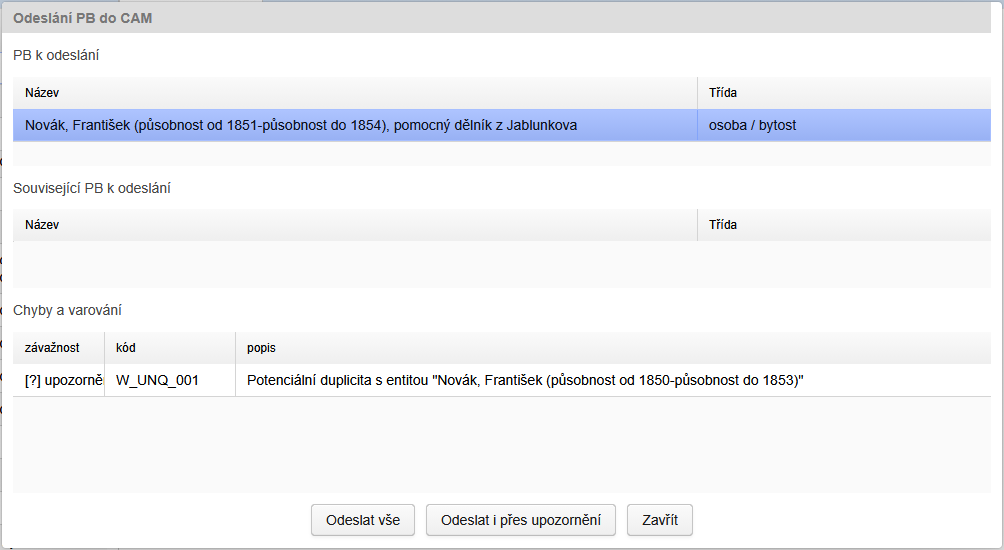
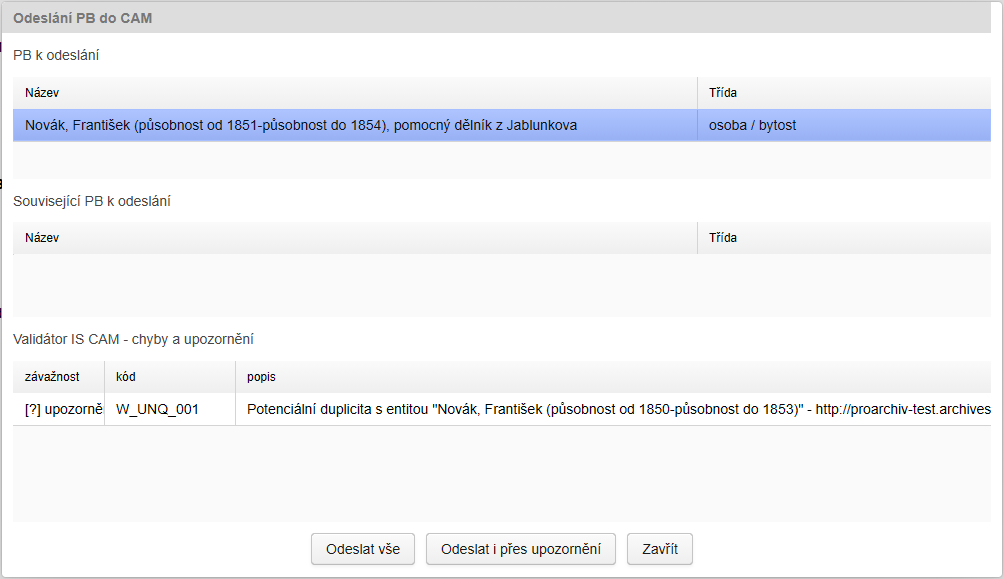
Úpravy PROARCHIV - Přístupové body - modul pro správu přístupových bodů - v důsledku implementaci API v2

diff --git a/docs/proarchiv/manual_modul_ap.md b/docs/proarchiv/manual_modul_ap.md
@@ -81,7 +81,7 @@ Validace se vztahuje k zveřejněným [pravidlům popisu](https://cam.nacr.cz/do
 
 Napojení modulu na IS CAM je závisle na přidělené roli dle [provozního řádu IS CAM](https://cam.nacr.cz/info/provoznirad2.html#urovne-pristupu-do-is-cam). Reálně přichází v úvahu omezená varianta s rolí CAM I (čtení záznamů z IS CAM) nebo plnohodnotná varianta s rolí CAM III (čtení a změna záznamů s IS CAM). Tento manuál prezentuje možnosti plnohodnotné varianty.
 
-[DOPRACOVAT - ještě není implementováno] O tom, zda je konkrétní přístupový bod v aktuálním stavu synchronizován s IS CAM, podávájí informaci hodnoty v poli Synchronizace s IS CAM v Pomocných údajích.
+O tom, zda je konkrétní přístupový bod v aktuálním stavu synchronizován s IS CAM, podávají informaci hodnoty v poli Synchronizace s IS CAM v Pomocných údajích.
 
 #### 3.4.1 Princip synchronizace/přijímání entit z IS CAM do modulu
 
@@ -305,6 +305,12 @@ Zapisuje se zde časová značka poslední aktualizace záznamu v lokální data
 ##### PB k nahrazení
 
 V případě, že je zobrazen PB, který byl v IS CAM nahrazen (= stav "nahrazený"), poté je zde propagován v sekci "PB k nahrazení" i permalink PB, který jej nahradil. Tento údaj je potřebný k provedení náhrady PB ve vazbách na archivní popis, případně vzájemných vazbách mezi PB (viz funkce v pořádací aplikaci "[Nahrazení přístupového bodu za jiný](manual_proarchiv.md#5921-nahrazeni-pristupoveho-bodu-za-jiny)".
+
+##### PB, které odkazují na tento záznam
+
+Na vyžádání pomocí Nástroje - Občerstvit (![tools](img-ap/tools.png)+ ![tools-obcerstvit](img-ap/tools-obcerstvit.png)) se zobrazí seznam všech PB, které jsou na PB z detailu napojeny.
+
+Pomocí Nástroje - Uložit do výběru (![tools](img-ap/tools.png)+ ![tools-pridat-do-vyberu](img-ap/tools-pridat-do-vyberu.png)) se tyto záznamy přesunou do bočního panelu s výběrem.
 
 #### 4.6.4 Validace
 
@@ -679,8 +685,6 @@ V případě, že je v sekci PB k odeslání více přístupových bodů, je pot
 
 Po prvním pokusu o odeslání zůstanou v dialogu ty záznamy, které se nepodařilo odeslat kvůli zjištěným chybám/upozorněním:
 
-[DOPRACOVAT - nahradit printscreen po aktualizaci labelu]
-
 ![odesilani-chyby_a_varovani](img-ap/odesilani-chyby_a_varovani.png)
 
 Označením záznamu v sekci *PB k odeslání* se zobrazí detaily chyb/upozornění v sekci **Validátor IS CAM - chyby a upozornění**. Jde o výsledky z validátoru IS CAM, jehož chování je popsáno v kapitole [5.9.2 Validátor IS CAM - chyby a upozornění](manual_modul_ap.md#592-chyby-a-upozorneni-z-camu).
@@ -780,8 +784,6 @@ Druhá část se zobrazuje v sekci **Validátor IS CAM - chyby a upozornění**.
 
 Uživatel může tuto službu zavolat pomocí funkce Různé funkce - Validátor IS CAM - testovat PB:
 
-[DOPRACOVAT - nahradit printscreen po aktualizaci labelu]
-
 ![test_pb_oproti_camu](img-ap/test_pb_oproti_camu.png) 
 
 ##### 5.9.2.2 Testování při změně stavů
@@ -810,6 +812,12 @@ Pokud je detekována chyba `R_?`, pak změna stavu nebo odesílání do IS CAM n
 Pokud je detekováno pouze upozornění `W_?`, pak může uživatel rozhodnou, zda upozornění bere jako opodstatněné (opomenutá chyba nebo nutnost dalšího prověření) a změnu stavu / odesílání do IS CAM ukončí. Nebo naopak jej již analyzoval, bere jej jako irelevantní a změnu stavu / odesílání do IS CAM provede. 
 
 ![validace-zmena_stavu-upozorneni](img-ap/validace-zmena_stavu-upozorneni.png)
+
+###### 5.9.2.4.1 Hledání v sekci Validátor IS CAM - chyby a upozornění
+
+Vzhledem k tomu, že validátorem zaslané chyby a upozornění jsou ukládány jako prostý text, lze v nich v rámci rozšířeného výběru vyhledávat . Např. udělené výjimky:
+
+![rozsireny_vyber-hledani_v_chyby-a-upozorneni](img-ap/rozsireny_vyber-hledani_v_chyby-a-upozorneni.png)
 
 !!! warning "Upozornění"
 
@@ -853,7 +861,9 @@ Test dostupnosti IS CAM (viz stejnojmenná funkce v Různé funkce) slouží k z
 
 ### 5.13 Hledání neplatných a nahrazených PB
 
-Funkce zobrazí seznam neplatných a nahrazených PB, které mají aktivní vazbu na jiné PB v systému.
+Funkce zobrazí seznam neplatných a nahrazených PB, které mají aktivní vazbu na jiné PB v systému (vyjma PB ve stavu neplatný/nahrazeny).
+
+U každého nalezeného PB, lze pak konkrétní napojené PB najít v Pomocných údajích - [PB, které odkazují na tento záznam](manual_modul_ap.md#pb-ktere-odkazuji-na-tento-zaznam).  
 
 ### 5.14 Statistika
 
